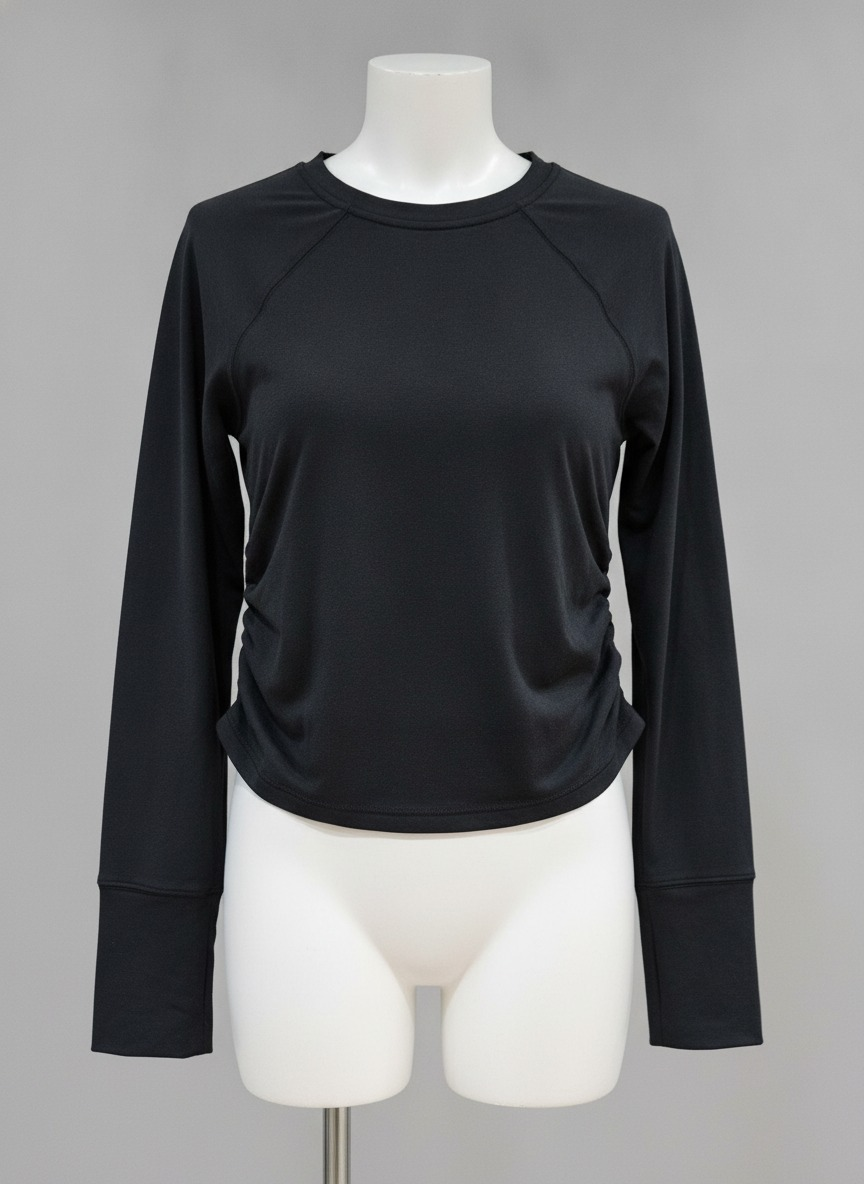
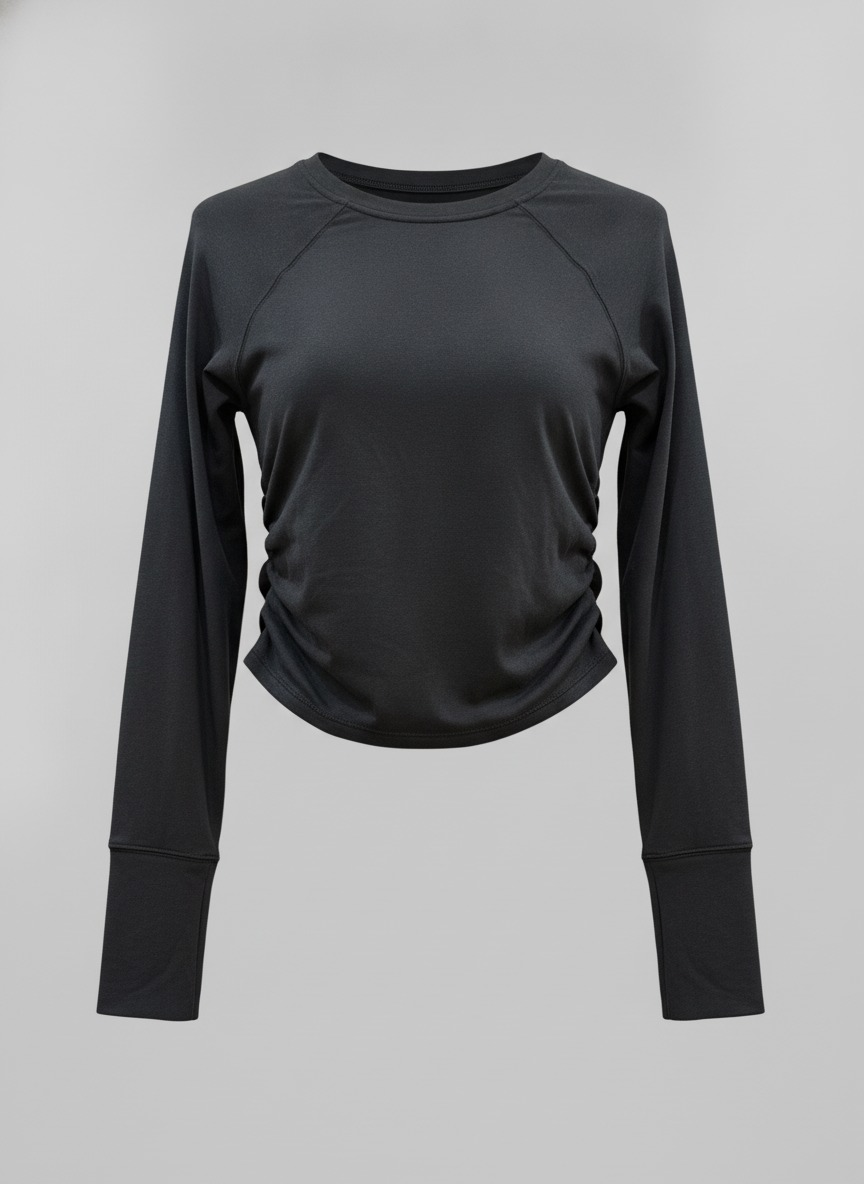
Prompt de maniqui invisible mas explicito; P03 Muestra_3 v3

diff --git a/pipeline/maniqui.py b/pipeline/maniqui.py
@@ -12,9 +12,11 @@ LOG = Path("errores.log")
 REINTENTOS = 2
 
 PROMPT = ("Estas imágenes muestran la misma prenda desde distintos ángulos: {descripcion}. "
-          "Recréala una sola vez sobre un maniquí invisible (ghost mannequin), fondo de estudio gris claro uniforme, "
-          "luz suave, encuadre frontal completo, estilo e-commerce. Conserva exactamente color, patrón, manga, largo, "
-          "cuello y proporciones. No agregues, quites ni cambies nada. Sin modelo, sin texto, sin accesorios extra.")
+          "Recréala una sola vez con la técnica de maniquí invisible (ghost mannequin): la prenda aparece con volumen "
+          "de cuerpo pero NO se ve ningún maniquí. Nada de cabeza, cuello, torso, brazos, cadera, piernas ni base: "
+          "donde termina la prenda solo hay fondo. Fondo de estudio gris claro uniforme, luz suave, encuadre frontal "
+          "completo, estilo e-commerce. Conserva exactamente color, patrón, manga, largo, cuello y proporciones. "
+          "No agregues, quites ni cambies nada. Sin modelo, sin texto, sin accesorios extra.")
 
 def log(msg):
     with LOG.open("a", encoding="utf-8") as f:
